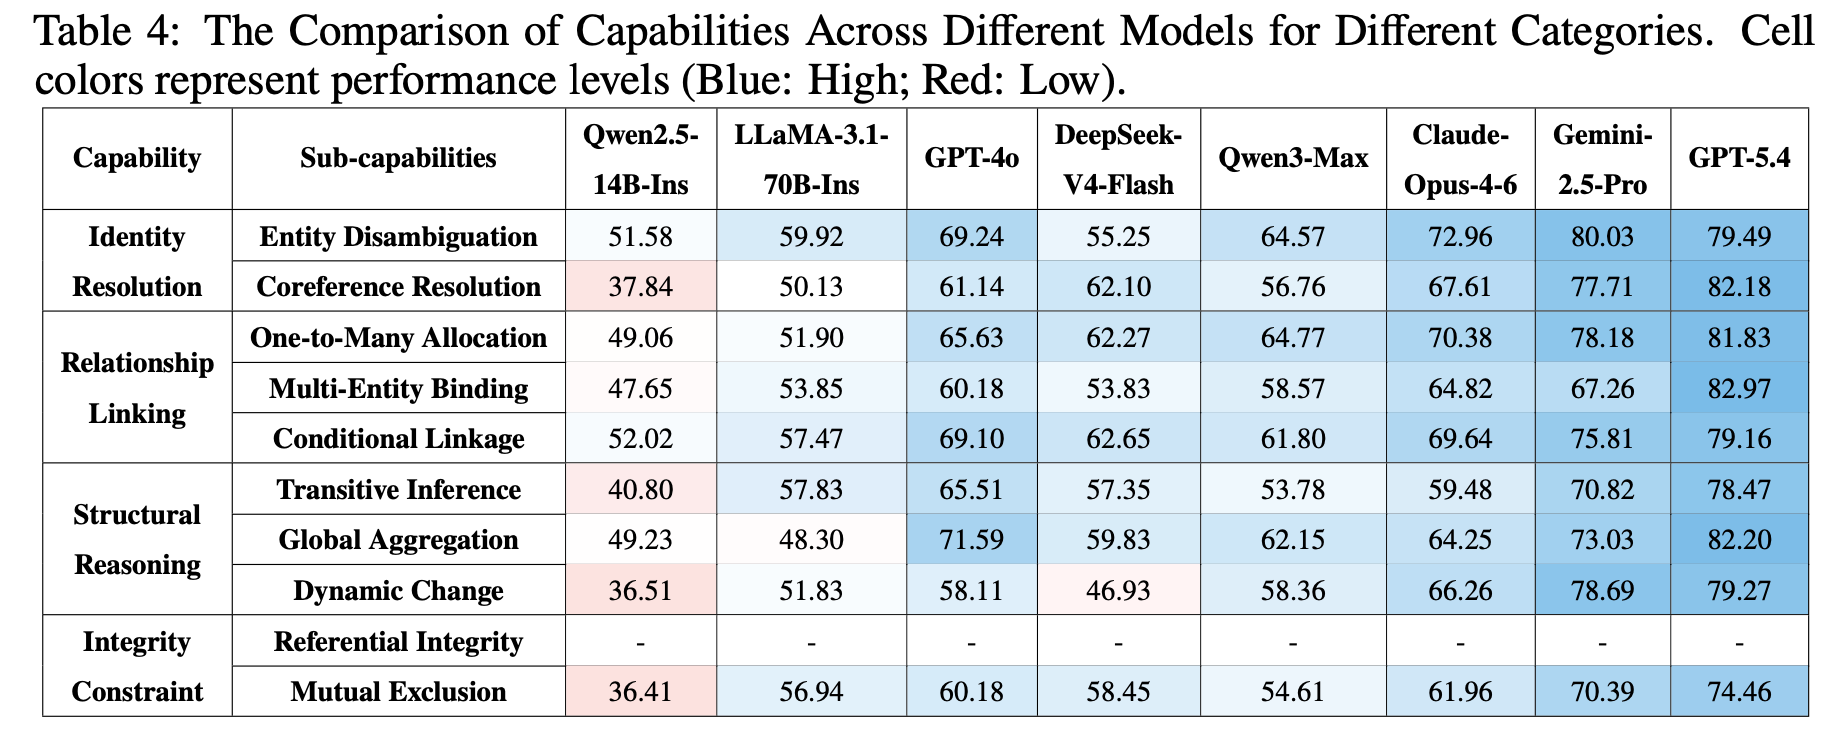
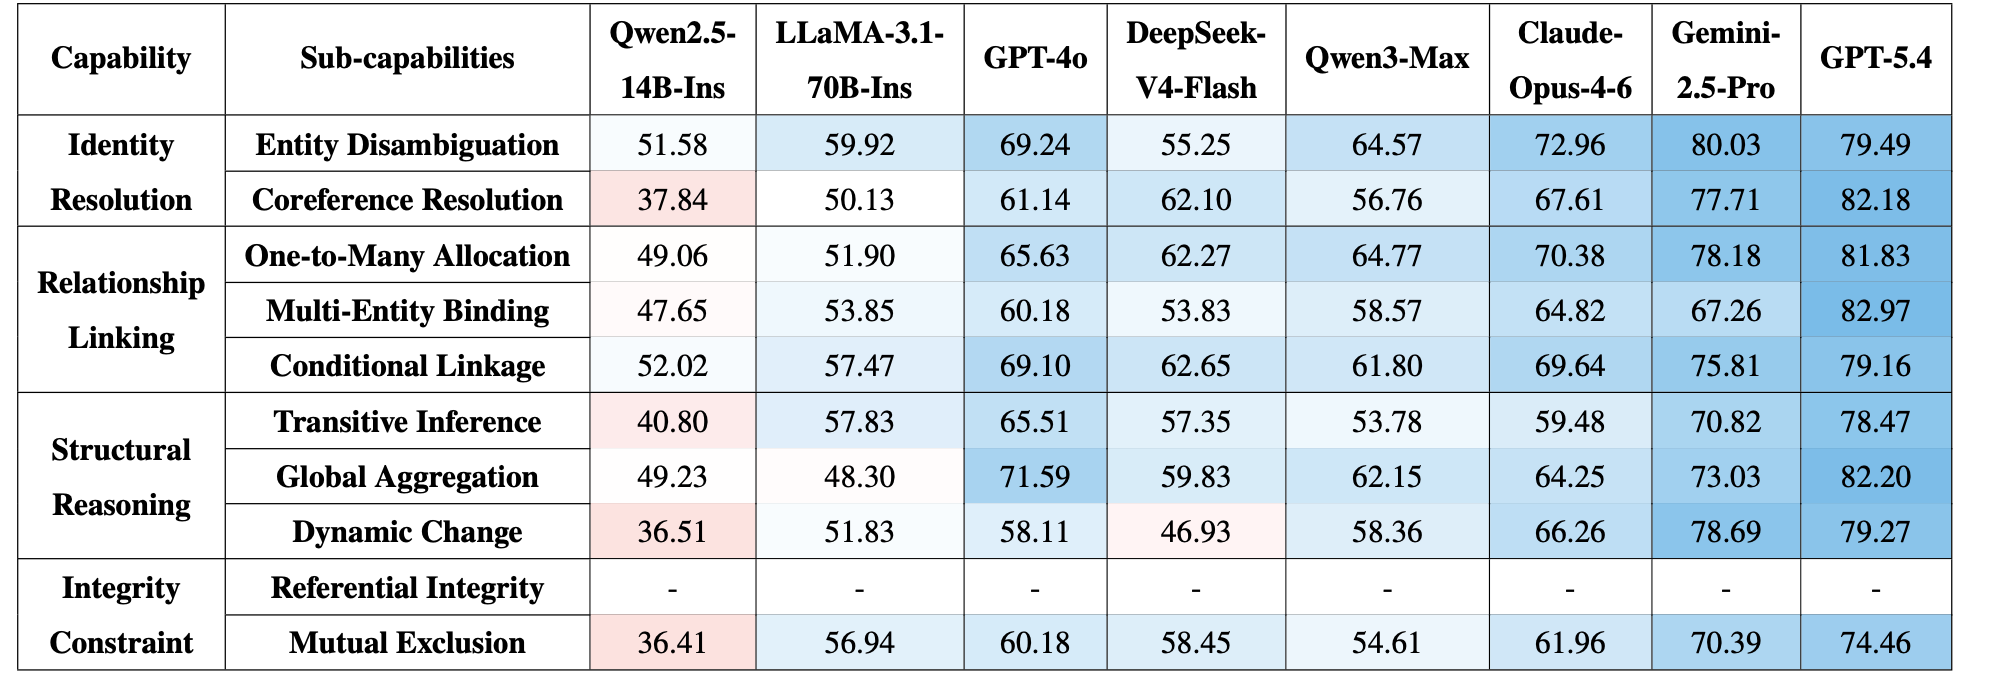
updated

diff --git a/README.md b/README.md
@@ -48,8 +48,6 @@ Doc2DB-Bench is designed to measure exactly those requirements.
   <img src="assets/taxonomy.png" alt="Doc2DB-Bench capability taxonomy." />
 </p>
 
-The vector version is available at [`assets/taxonomy.pdf`](./assets/taxonomy.pdf).
-
 Doc2DB-Bench is organized around two top-level capability pillars.
 
 ### 1. Intra-Table Capabilities
@@ -147,9 +145,7 @@ Doc2DB-Bench/
 
 ## 🧩What Each Module Does
 
-1. [`data_construction/`](./data_construction/)
-
-Implements the benchmark construction pipeline:
+1. [`data_construction/`](./data_construction/): Implements the benchmark construction pipeline:
 
 - preprocess Spider / BIRD databases
 - assign capability labels
@@ -161,9 +157,7 @@ Implements the benchmark construction pipeline:
 
 See [`data_construction/README.md`](./data_construction/README.md) for the detailed pipeline, configuration, supported input formats, and scripts.
 
-2. [`evaluation/`](./evaluation/)
-
-Implements structured extraction baselines and evaluation:
+2. [`evaluation/`](./evaluation/): Implements structured extraction baselines and evaluation:
 
 - run extraction baselines
 - score outputs against ground-truth database tables
